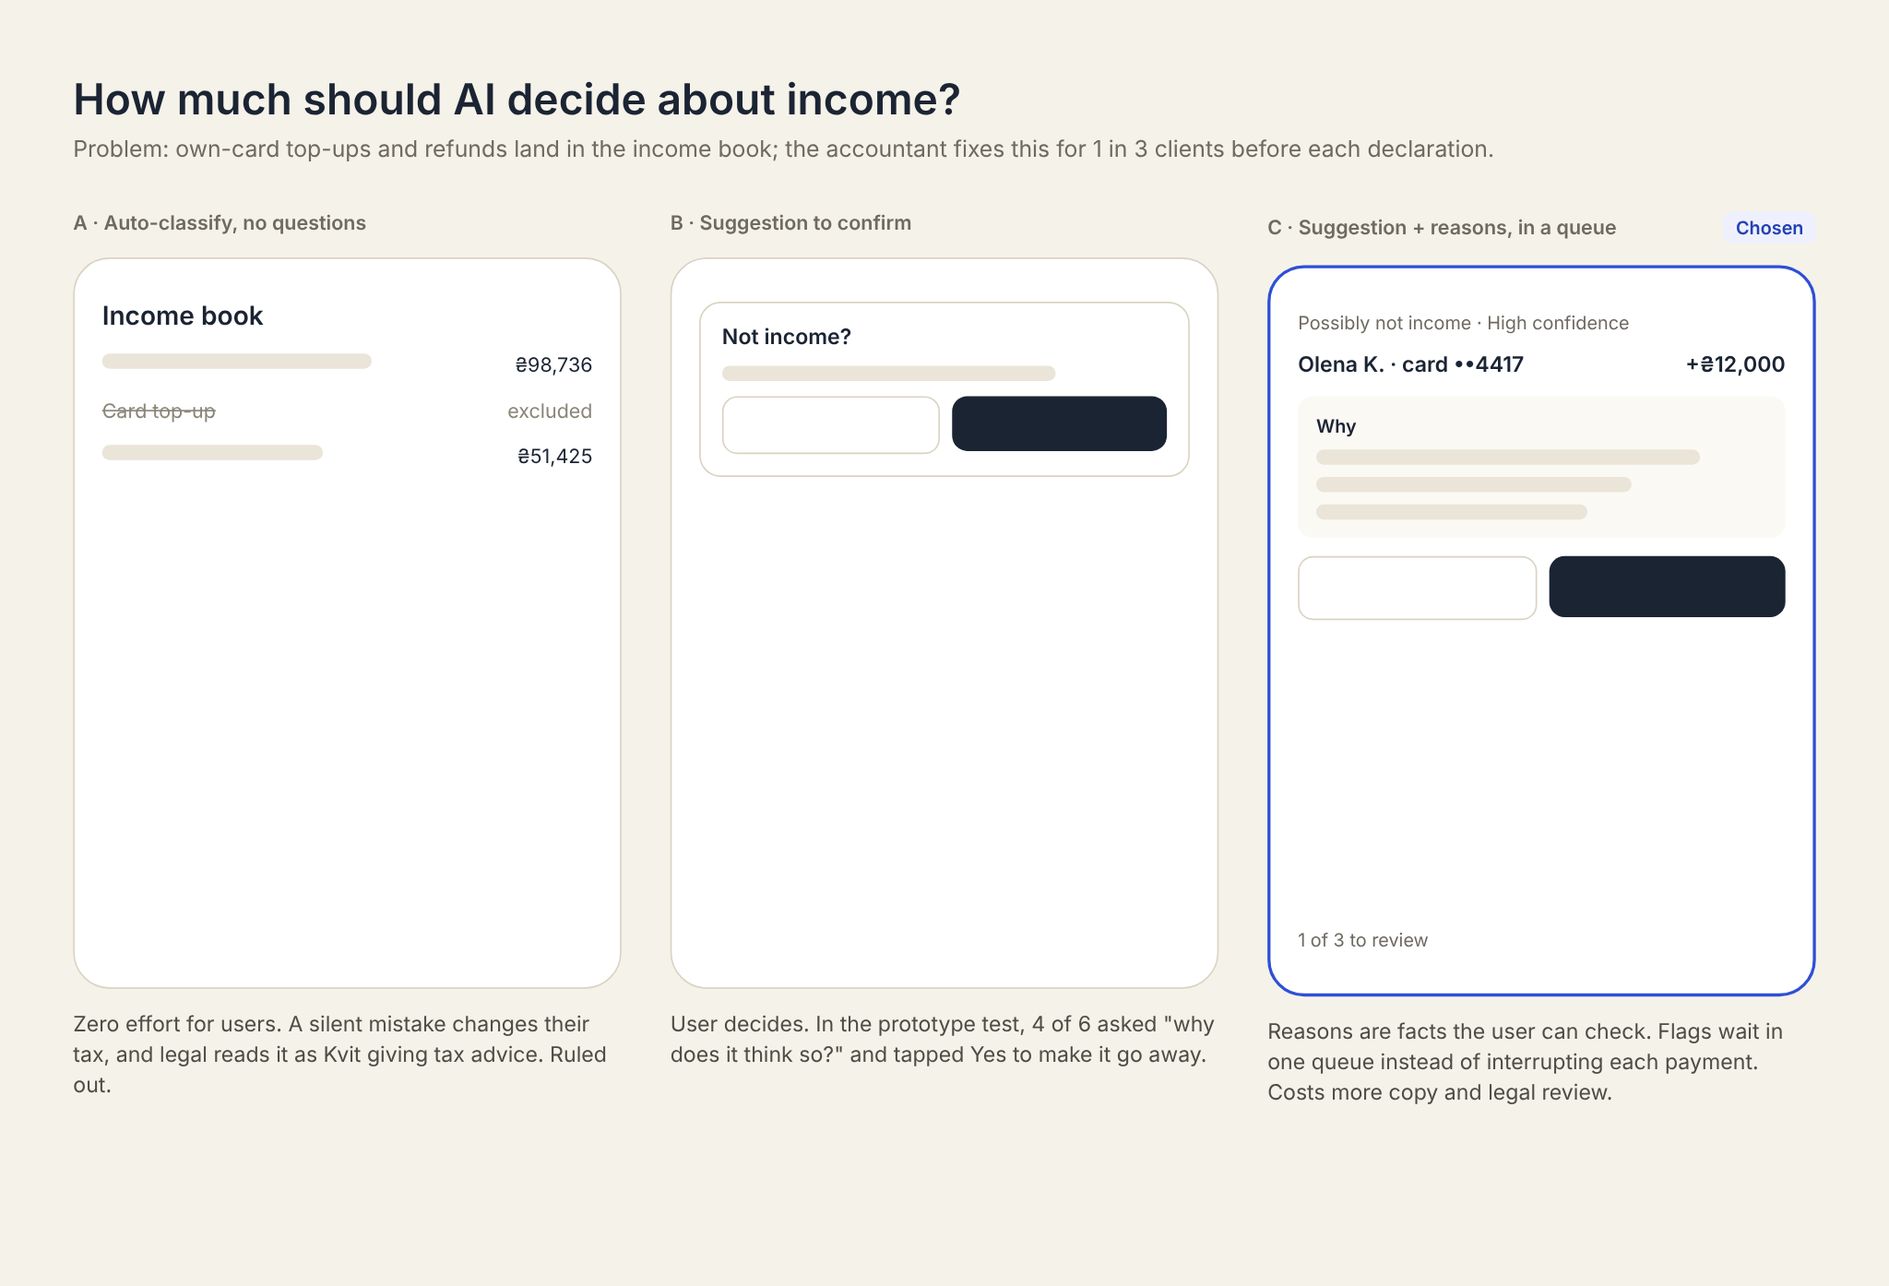
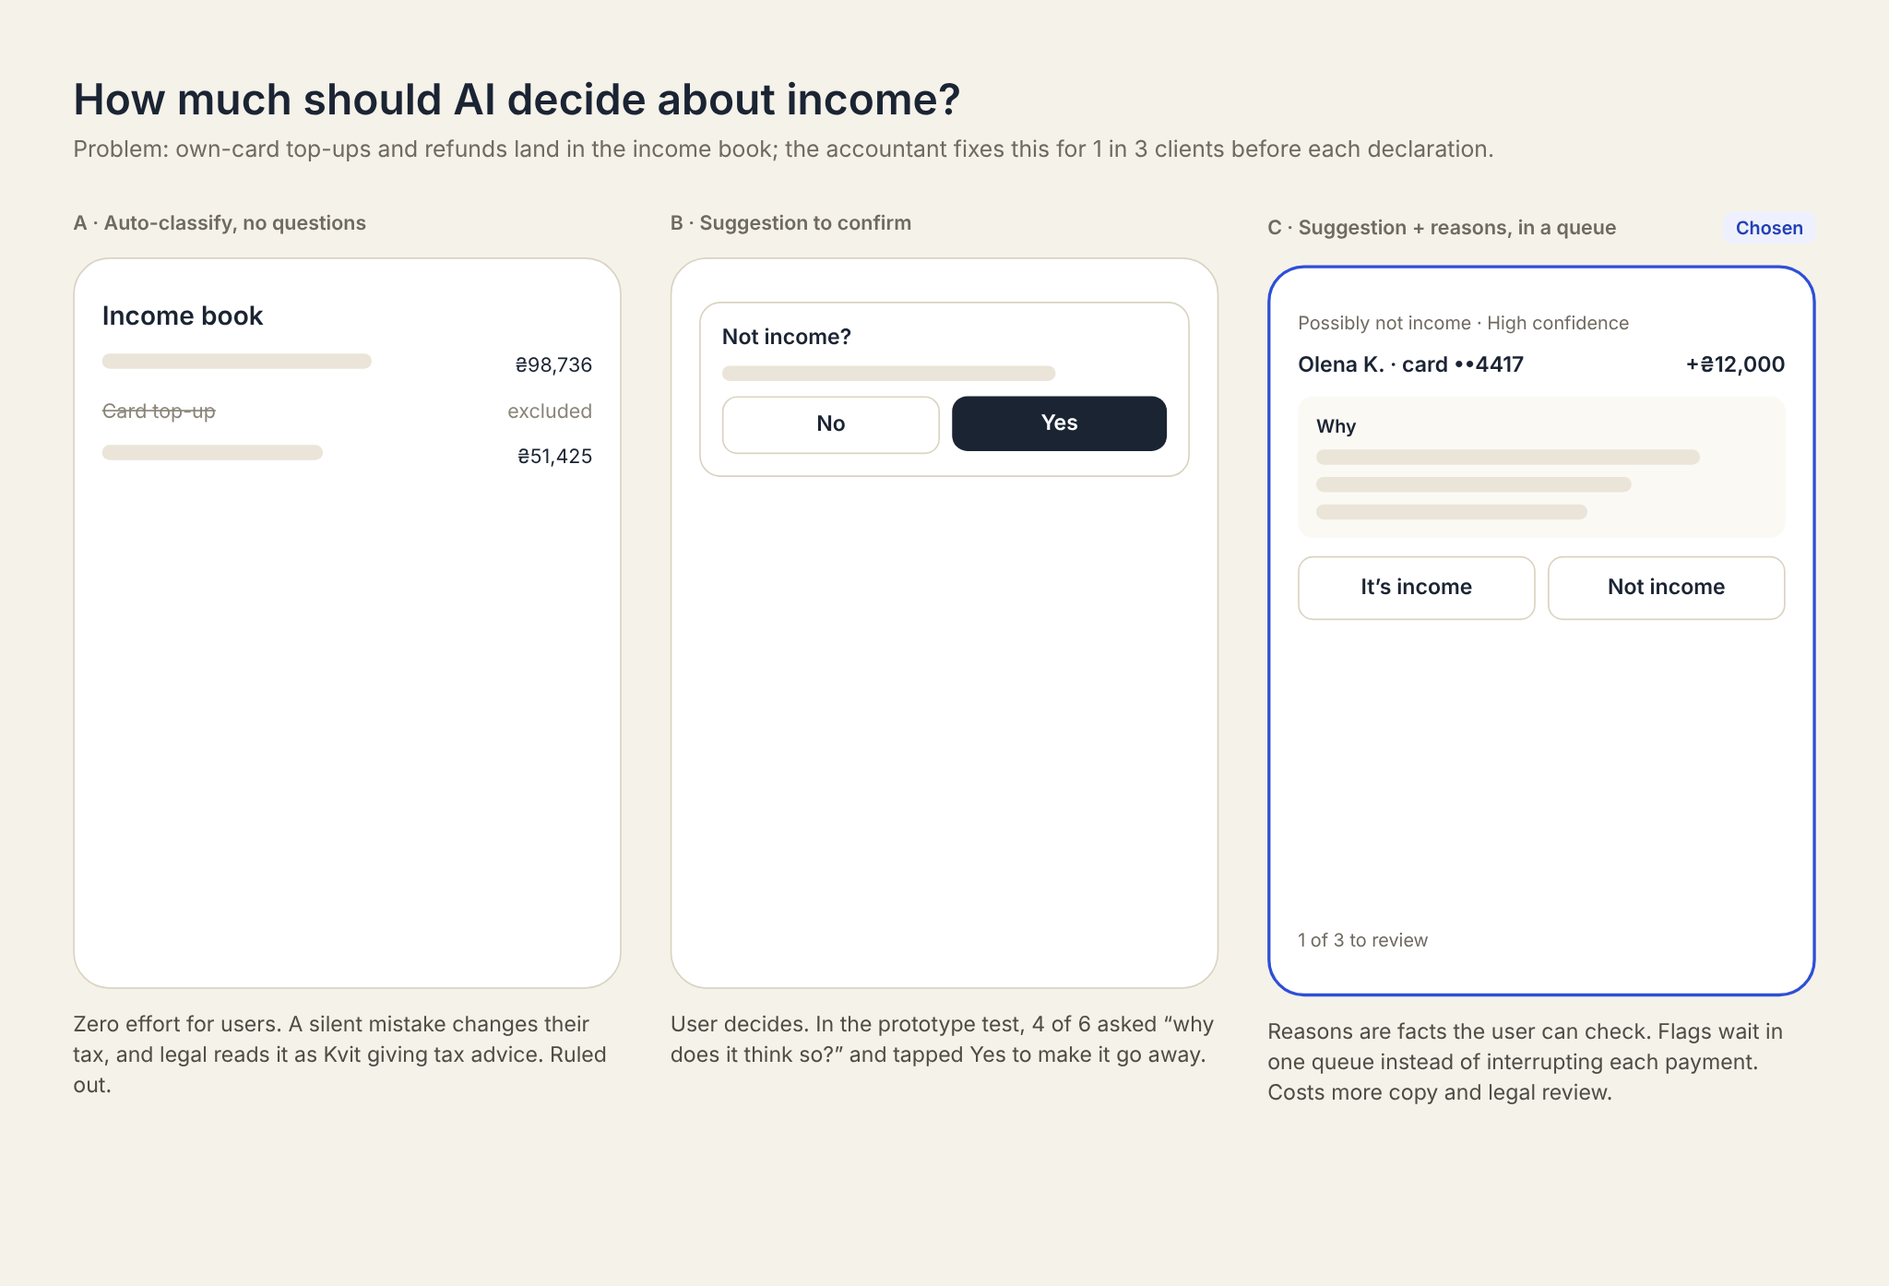
Kvit: drop the loyalty block, equal answers in wireframe C, typography
- Loyalty layer removed from the page (images stay in the repo): it contradicted
  the one-path scope.
- 15-options-ai-flags: option C buttons now both outlined, as on the final screen;
  B labelled No / Yes; curly quotes in the B note.
- Non-breaking spaces between numbers and words, A/B&nbsp;test, week&nbsp;5.
- Case og:image from the hero (img/kvit-business-banking-freelancers/og.jpg).

Claude-Session: https://claude.ai/code/session_01CGxAnau3YsTjunsmTQkPFp

diff --git a/kvit-business-banking-freelancers.html b/kvit-business-banking-freelancers.html
@@ -11,10 +11,10 @@
 <link rel="canonical" href="https://voitenkodesign.com/kvit-business-banking-freelancers.html">
 <meta property="og:url" content="https://voitenkodesign.com/kvit-business-banking-freelancers.html">
 <meta property="og:site_name" content="Voitenko Design">
-<meta property="og:image" content="https://voitenkodesign.com/og.jpg">
+<meta property="og:image" content="https://voitenkodesign.com/img/kvit-business-banking-freelancers/og.jpg">
 <meta property="og:image:width" content="1200">
 <meta property="og:image:height" content="630">
-<meta property="og:image:alt" content="Igor Voitenko, UI/UX &amp; Product Designer">
+<meta property="og:image:alt" content="Three Kvit screens: the home screen, a foreign payment tracker and an AI check of an incoming payment">
 <meta name="twitter:card" content="summary_large_image">
 <meta name="color-scheme" content="dark">
 <meta name="theme-color" content="#101010">
@@ -49,15 +49,15 @@
 <p class="reveal">Kvit is a mobile bank for Ukrainian sole proprietors who get paid by clients abroad. In beta, 59% of sign-ups never reached a verified account, and only 23% received a first payment within 30&nbsp;days. I redesigned the path from sign-up to the first dollar, and activation reached its 28% target.</p>
 <p class="reveal"><em>Concept. Product, users and data are fictional.</em></p>
 <h2 class="reveal">Context</h2>
-<p class="reveal">Kvit is five months into its beta: 32,000&nbsp;sign-ups and about 11,000 monthly active users, mostly freelancers who sell services abroad. They are sole proprietors who pay 5% tax on income, and their clients pay them in dollars or euros. The quarter has one goal, activation: a first incoming payment within 30&nbsp;days of sign-up. It stands at 23%, and the target is 28%.</p>
+<p class="reveal">Kvit is five months into its beta: 32,000&nbsp;sign-ups and about 11,000&nbsp;monthly active users, mostly freelancers who sell services abroad. They are sole proprietors who pay 5% tax on income, and their clients pay them in dollars or euros. The quarter has one goal, activation: a first incoming payment within 30&nbsp;days of sign-up. It stands at 23%, and the target is 28%.</p>
 <p class="reveal">This is a solo concept, written the way it would run in a team: a product lead, four engineers, a compliance officer, an accountant as an advisor and me. I ran the research, the hypotheses, the flows and screens, the design system and the test plan. Ten weeks of work, six of measurement.</p>
 <h2 class="reveal">Constraints</h2>
 <ul class="reveal"><li><strong>Compliance.</strong> The bank can’t tell the customer the exact reason for some holds, so every hold message has to be agreed with compliance.</li><li><strong>No tax advice.</strong> The app can suggest, but the user decides anything that touches tax.</li><li><strong>Diia is an outside service.</strong> If the state ID app is down, the photo path has to work on its own.</li><li><strong>Ten weeks, two mobile engineers,</strong> and no view of a SWIFT payment before it reaches the bank. Anything that needs new back-office work has to earn its place.</li><li><strong>WCAG&nbsp;AA</strong> contrast for all text, in both light and dark themes.</li></ul>
 <h2 class="reveal">Process</h2>
 <p class="reveal">I cut the scope first. The list had onboarding, verification, two-factor login, invoices, foreign payments, tax reminders and AI tips on spending: too much for one quarter. I kept one path, from sign-up to the first payment received.</p>
 <p class="reveal"><strong>Funnel of the August cohort, 6,400&nbsp;sign-ups.</strong> 38% failed verification on the first try, and only 37% of them retried. Verification became the first problem to solve.</p>
-<p class="reveal"><strong>300 support tickets.</strong> 48% were about foreign payments on hold or unclear document requests. A held payment became the second.</p>
-<p class="reveal"><strong>9&nbsp;interviews.</strong> Six freelancers paid in USD or EUR, two local-only owners for contrast, and an accountant who keeps the books for about 40 of them. Compliance joined two synthesis sessions, so we knew early what we could show. The interviews explained the numbers:</p>
+<p class="reveal"><strong>300&nbsp;support tickets.</strong> 48% were about foreign payments on hold or unclear document requests. A held payment became the second.</p>
+<p class="reveal"><strong>9&nbsp;interviews.</strong> Six freelancers paid in USD or EUR, two local-only owners for contrast, and an accountant who keeps the books for about 40&nbsp;of them. Compliance joined two synthesis sessions, so we knew early what we could show. The interviews explained the numbers:</p>
 <p class="reveal"><strong>A rejection without a reason feels like an accusation.</strong> 6 of 8 had failed a bank’s verification at some point; what hurt was not knowing what went wrong.</p>
 <blockquote class="reveal"><p>“I took the photo in my kitchen at night, glare all over the ID card. If it had said ‘glare’, I’d have moved to the window. Instead I got an email two days later.”</p><cite>Marta, illustrator</cite></blockquote>
 <p class="reveal"><strong>Money in transit is the most stressful moment.</strong> All six foreign-currency earners described a payment they couldn’t track and a document request they didn’t understand.</p>
@@ -78,7 +78,7 @@
 <p class="reveal">Diia comes first; the photo path is a full flow. Engineering pushed back on custom photo checks, so we used the vendor’s three: glare, blur and cropped edges. When a photo fails, the photo marks the field that couldn’t be read, the text says how to fix it, and the screen confirms what was read correctly. A short panel explains who sees your data and for how long. Two-factor setup fits into the wait.</p>
 <div class="gallery gallery--phones reveal" style="--cols:3"><figure class="fig"><span class="phone"><img src="img/kvit-business-banking-freelancers/03-verify-method.webp" alt="Choosing how to verify: Diia or ID card photos, with a note on how data is used" width="1179" height="2556" loading="lazy" decoding="async"></span><figcaption>Diia first, photos as a full second path</figcaption></figure><figure class="fig"><span class="phone"><img src="img/kvit-business-banking-freelancers/05-verify-checking.webp" alt="Verification in progress, with a panel on who sees your data and for how long" width="1179" height="2556" loading="lazy" decoding="async"></span><figcaption>While we check, you see who sees your data</figcaption></figure><figure class="fig"><span class="phone"><img src="img/kvit-business-banking-freelancers/06-verify-secure-phone.webp" alt="Linking the phone, turning on Face ID and setting a PIN" width="1179" height="2556" loading="lazy" decoding="async"></span><figcaption>Two-factor setup fits into the wait</figcaption></figure></div>
 <h2 class="reveal">Foreign payments you can track</h2>
-<p class="reveal">Bank requests live on the home screen, not in email. The tracker shows a payment like a parcel: what happened, what’s happening now, what comes next. An invoice made in Kvit is already the document the bank wants: the app matches it by client, amount and currency and offers it in one tap. With compliance, I rewrote 14 hold reasons in plain language; for the three they can’t disclose, the screen says what happens next and when. To fit ten weeks, the tracker has four statuses, not a full SWIFT trace.</p>
+<p class="reveal">Bank requests live on the home screen, not in email. The tracker shows a payment like a parcel: what happened, what’s happening now, what comes next. An invoice made in Kvit is already the document the bank wants: the app matches it by client, amount and currency and offers it in one tap. With compliance, I rewrote 14&nbsp;hold reasons in plain language; for the three they can’t disclose, the screen says what happens next and when. To fit ten weeks, the tracker has four statuses, not a full SWIFT trace.</p>
 <div class="media reveal"><figure class="fig"><img src="img/kvit-business-banking-freelancers/07-options-inflow.webp" alt="Wireframes of three options for a held payment: a status in history, a push with a separate screen, and a tracker with the request inside" width="2048" height="1394" loading="lazy" decoding="async"><figcaption>Three ways to show a held payment. I picked the tracker</figcaption></figure></div>
 <div class="gallery gallery--phones reveal" style="--cols:3"><figure class="fig"><span class="phone"><img src="img/kvit-business-banking-freelancers/08-home.webp" alt="Home screen with the USD balance, quick actions and a Needs your attention block" width="1179" height="2556" loading="lazy" decoding="async"></span><figcaption>Bank requests wait on the home screen</figcaption></figure><figure class="fig"><span class="phone"><img src="img/kvit-business-banking-freelancers/09-inflow-tracker.webp" alt="Payment tracker: sent, arrived, document needed now, credited next" width="1179" height="2556" loading="lazy" decoding="async"></span><figcaption>The payment, step by step, like a parcel</figcaption></figure><figure class="fig"><span class="phone"><img src="img/kvit-business-banking-freelancers/10-send-invoice.webp" alt="Sheet that sends a matching Kvit invoice to the bank, with Face ID" width="1179" height="2556" loading="lazy" decoding="async"></span><figcaption>The matching invoice, sent in one tap</figcaption></figure><figure class="fig"><span class="phone"><img src="img/kvit-business-banking-freelancers/12-payment-credited.webp" alt="Credited payment: the National Bank rate, the amount added to the income book, and an offer to set tax aside" width="1179" height="2556" loading="lazy" decoding="async"></span><figcaption>Credited means recorded, with tax to set aside</figcaption></figure></div>
 <p class="reveal">When the money arrives, the app converts it at the National Bank rate, adds it to the income book and offers to set the tax aside. Selling dollars is usually the next step: a daily limit with a way around it, a rate that holds for a minute, confirmation and success.</p>
@@ -89,20 +89,13 @@
 <h2 class="reveal">A receipt for every payment, in two themes</h2>
 <p class="reveal">Kvit is short for kvytantsiia, the Ukrainian word for a receipt. Payment records, statuses and confirmations are printed on warm paper with a torn edge, dotted leaders and a document number; a credited payment gets a green stamp. Everything else stays quiet: cool grey, navy ink, one cobalt accent, Golos Text with tabular figures. Two layers of tokens and eight components make the dark theme a second set of values, and every text pair passes WCAG&nbsp;AA. A critique found the first pass generic, so I redid it.</p>
 <div class="media reveal"><figure class="fig"><img src="img/kvit-business-banking-freelancers/19-design-system.webp" alt="Colour tokens, status chips, an amount and buttons in the light and dark themes" width="2048" height="1297" loading="lazy" decoding="async"><figcaption>Colour means one thing, in both themes</figcaption></figure></div>
-<h2 class="reveal">Loyalty layer</h2>
-<p class="reveal">Quests give small cashback rewards. A streak counts quarters with tax paid on time, shown as a stamp card on receipt paper: each quarter paid on time gets a PAID stamp. Three levels raise card cashback.</p>
-<p class="reveal">Three months after the activation work, day-60 retention had barely moved, and the product lead proposed gamification. I designed it and set up an experiment so we’d learn either way: eight weeks, 20% of active users against a holdout of the same size. The guardrail was average invoice size, in case quests changed how people bill.</p>
-<p class="reveal">The result was mixed:</p>
-<ul class="reveal"><li>31% took part. Participants sent 22% more invoices than the holdout, partly because active people join quests.</li><li>Day-60 retention went up 1.1 points, which is not significant.</li><li>The guardrail fired: people who completed “Send 5&nbsp;invoices” cut their average invoice by 17%, splitting bills to finish the quest.</li><li>3 of 8&nbsp;people over 35 called the rewards “not serious for money”.</li></ul>
-<p class="reveal">The volume quest is gone. The remaining quests reward habits that protect the user: paying tax on time, turning on reminders and giving an accountant access. A missed quarter pauses the streak instead of resetting it. A re-run with the same holdout is planned.</p>
-<div class="gallery gallery--phones reveal" style="--cols:3"><figure class="fig"><span class="phone"><img src="img/kvit-business-banking-freelancers/23-rewards-first-version.webp" alt="First version of the rewards screen: level, tax streak and a quest to send 5&nbsp;invoices" width="1179" height="2556" loading="lazy" decoding="async"></span><figcaption>First version, with a volume quest</figcaption></figure><figure class="fig"><span class="phone"><img src="img/kvit-business-banking-freelancers/24-quest-complete.webp" alt="Quest complete screen with the cashback amount and level progress" width="1179" height="2556" loading="lazy" decoding="async"></span><figcaption>The reward moment</figcaption></figure><figure class="fig"><span class="phone"><img src="img/kvit-business-banking-freelancers/25-rewards-revised.webp" alt="Revised rewards screen: quests for paying tax on time, reminders and accountant access" width="1179" height="2556" loading="lazy" decoding="async"></span><figcaption>Revised version: habits, not volume</figcaption></figure></div>
 <h2 class="reveal">States and edge cases</h2>
 <div class="gallery gallery--phones reveal" style="--cols:3"><figure class="fig"><span class="phone"><img src="img/kvit-business-banking-freelancers/04-verify-photo-error.webp" alt="A failed ID photo: glare is marked on the photo, and the error says what to do" width="1179" height="2556" loading="lazy" decoding="async"></span><figcaption>Glare on the ID: retake it or use Diia</figcaption></figure><figure class="fig"><span class="phone"><img src="img/kvit-business-banking-freelancers/11-document-rejected.webp" alt="Rejected document: the amounts don’t match, with a deadline and a way to fix it" width="1179" height="2556" loading="lazy" decoding="async"></span><figcaption>Rejected: send a corrected invoice before the deadline</figcaption></figure><figure class="fig"><span class="phone"><img src="img/kvit-business-banking-freelancers/13-exchange-over-limit.webp" alt="Exchange screen: the amount is over the daily limit, with a button to use the maximum" width="1179" height="2556" loading="lazy" decoding="async"></span><figcaption>Over the daily limit: exchange the maximum today</figcaption></figure></div>
 <h2 class="reveal">Result</h2>
-<p class="reveal"><strong>Each decision got the cheapest test that could prove it wrong.</strong> In a moderated prototype test with 6&nbsp;people in week 5, all 6 understood what the bank wanted, and 5 attached the invoice without help. One checked email out of habit, so the hold notification now opens the tracker. Two missed the error under the ID photo, so the photo itself now marks the unreadable field. An unmoderated comparison of old and new verification with 20&nbsp;people in week 7: task success went from 55% to 90%, and the median time from 6:40 to 3:10.</p>
-<p class="reveal"><strong>The A/B test moved verification.</strong> 50/50 for 3&nbsp;weeks, about 9,400&nbsp;sign-ups: 56% reached a verified account in the new flow versus 43% in control. The other changes went out as a staged rollout, because there wasn’t enough traffic to A/B test everything. Six weeks after the full rollout, activation reached the quarter’s target of 28%, up from 23%.</p>
+<p class="reveal"><strong>Each decision got the cheapest test that could prove it wrong.</strong> In a moderated prototype test with 6&nbsp;people in week&nbsp;5, all 6 understood what the bank wanted, and 5 attached the invoice without help. One checked email out of habit, so the hold notification now opens the tracker. Two missed the error under the ID photo, so the photo itself now marks the unreadable field. An unmoderated comparison of old and new verification with 20&nbsp;people in week&nbsp;7: task success went from 55% to 90%, and the median time from 6:40 to 3:10.</p>
+<p class="reveal"><strong>The A/B&nbsp;test moved verification.</strong> 50/50 for 3&nbsp;weeks, about 9,400&nbsp;sign-ups: 56% reached a verified account in the new flow versus 43% in control. The other changes went out as a staged rollout, because there wasn’t enough traffic to A/B&nbsp;test everything. Six weeks after the full rollout, activation reached the quarter’s target of 28%, up from 23%.</p>
 <div class="media reveal"><figure class="fig"><img src="img/kvit-business-banking-freelancers/26-results.webp" alt="Before and after for four metrics: sign-up to verified, verified on the first attempt, held payments cleared within 24&nbsp;hours, and activation, each with its quarter target" width="2048" height="1161" loading="lazy" decoding="async"><figcaption>Four metrics before and after, against the quarter targets</figcaption></figure></div>
-<p class="reveal"><strong>Support, speed and the books.</strong> Foreign payment tickets fell from 46 to 30 per 1,000 active users, about 175 fewer a month. The median time to a verified account dropped from 26&nbsp;hours to 2.5&nbsp;hours; on the Diia path, it’s under 10&nbsp;minutes. 74% of AI flags were accepted against a 60% target, and manual corrections to the income book fell from 2.1 to 1.3 per user per quarter. At about 6,400&nbsp;sign-ups a month, five points of activation means roughly 320 more accounts receiving money every month.</p>
+<p class="reveal"><strong>Support, speed and the books.</strong> Foreign payment tickets fell from 46 to 30 per 1,000&nbsp;active users, about 175&nbsp;fewer a month. The median time to a verified account dropped from 26&nbsp;hours to 2.5&nbsp;hours; on the Diia path, it’s under 10&nbsp;minutes. 74% of AI flags were accepted against a 60% target, and manual corrections to the income book fell from 2.1 to 1.3 per user per quarter. At about 6,400&nbsp;sign-ups a month, five points of activation means roughly 320&nbsp;more accounts receiving money every month.</p>
 <p class="reveal"><strong>One hypothesis failed.</strong> The automatic tax pocket reached 19% of foreign-currency earners against a 40% target, and 23% of those who turned it on switched it off within two weeks. I called six of them:</p>
 <blockquote class="reveal"><p>“It took 5% exactly when I was short for rent. I’d rather pay the tax myself, I just need to know how much.”</p><cite>beta user</cite></blockquote>
 <p class="reveal">We kept the goal and gave control back: each credited payment offers the exact amount, one button and a reminder ten days before the deadline. In the first month, 41% of foreign-currency earners set money aside at least once, twice the reach of the automatic pocket.</p>
